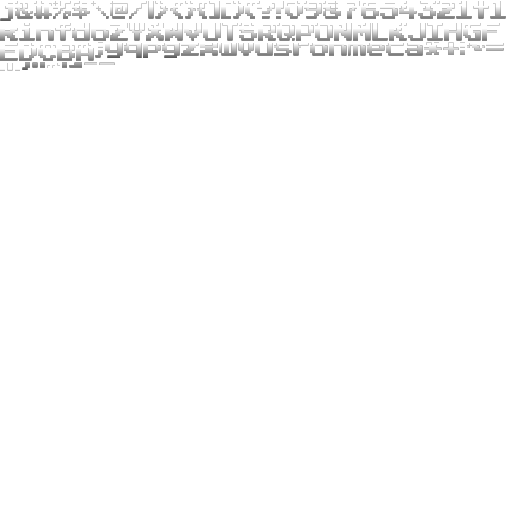
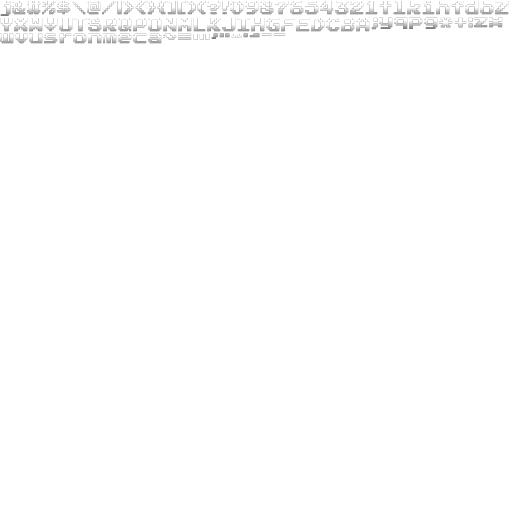
fixed font

Changed region(s): [[0.0, 0.0, 1.0, 0.1562]]

diff --git a/src/de/swagner/mgcube/Resources.java b/src/de/swagner/mgcube/Resources.java
@@ -257,7 +257,7 @@ public class Resources {
 	public int[][][] level7 = {
 			{ { 0, 0, 0, 0, 0, 0, 0, 0, 0, 0 }, { 0, 0, 0, 1, 0, 0, 0, 0, 0, 0 }, { 0, 0, 0, 0, 0, 0, 0, 0, 0, 0 }, { 0, 0, 0, 1, 0, 0, 0, 0, 0, 0 }, { 0, 0, 0, 0, 0, 0, 0, 0, 0, 0 }, { 0, 0, 0, 0, 0, 0, 0, 0, 0, 0 }, { 0, 0, 0, 0, 0, 0, 0, 0, 0, 0 }, { 0, 0, 0, 0, 0, 0, 0, 0, 0, 0 }, { 0, 0, 0, 0, 0, 0, 0, 0, 0, 0 }, { 0, 0, 0, 0, 0, 0, 0, 0, 0, 0 } }, { { 0, 0, 0, 0, 0, 0, 0, 3, 0, 0 }, { 0, 0, 0, 0, 0, 0, 0, 0, 0, 0 }, { 0, 0, 0, 0, 0, 0, 0, 0, 0, 0 }, { 0, 0, 0, 0, 0, 0, 0, 0, 0, 0 }, { 0, 0, 0, 0, 0, 0, 0, 0, 0, 0 }, { 0, 0, 0, 0, 0, 0, 0, 0, 1, 0 }, { 0, 0, 0, 0, 0, 0, 0, 0, 0, 0 }, { 0, 0, 0, 1, 0, 0, 0, 0, 0, 0 }, { 0, 0, 0, 0, 0, 0, 0, 0, 0, 0 }, { 0, 0, 0, 0, 0, 0, 0, 0, 0, 0 } }, { { 0, 0, 0, 0, 0, 0, 0, 0, 0, 0 }, { 0, 0, 0, 0, 0, 0, 0, 0, 0, 0 }, { 0, 0, 0, 0, 0, 0, 0, 0, 0, 0 }, { 0, 0, 0, 0, 0, 0, 0, 0, 0, 0 }, { 0, 0, 0, 0, 0, 0, 0, 0, 0, 0 }, { 0, 0, 0, 0, 0, 0, 0, 0, 0, 0 }, { 0, 0, 0, 0, 0, 0, 0, 0, 0, 0 }, { 0, 0, 0, 0, 0, 0, 0, 0, 0, 0 }, { 0, 0, 0, 0, 0, 0, 0, 0, 0, 0 }, { 0, 0, 0, 0, 0, 0, 0, 0, 0, 0 } }, { { 0, 0, 0, 0, 0, 0, 0, 0, 0, 0 }, { 0, 0, 0, 0, 0, 0, 0, 0, 0, 0 }, { 0, 0, 0, 0, 0, 0, 0, 0, 0, 0 }, { 0, 0, 0, 0, 0, 0, 0, 0, 0, 0 }, { 0, 0, 0, 0, 0, 0, 0, 0, 0, 0 }, { 0, 0, 0, 0, 0, 0, 0, 0, 0, 0 }, { 0, 0, 0, 0, 0, 0, 0, 0, 0, 0 }, { 0, 0, 0, 0, 0, 0, 0, 0, 0, 0 }, { 0, 0, 0, 0, 0, 0, 0, 0, 0, 0 }, { 0, 0, 0, 0, 0, 0, 0, 0, 0, 0 } }, { { 0, 0, 0, 0, 0, 0, 0, 0, 0, 0 }, { 0, 0, 0, 0, 0, 0, 0, 0, 0, 0 }, { 0, 0, 0, 0, 0, 0, 0, 0, 0, 0 }, { 0, 0, 0, 0, 0, 0, 0, 0, 0, 0 }, { 0, 0, 0, 0, 0, 0, 0, 0, 0, 0 }, { 0, 0, 0, 0, 0, 0, 0, 0, 0, 0 }, { 0, 0, 0, 0, 0, 0, 0, 0, 0, 0 }, { 0, 0, 0, 0, 0, 0, 0, 0, 0, 0 }, { 0, 0, 0, 0, 0, 0, 0, 0, 0, 0 }, { 0, 0, 0, 0, 0, 0, 0, 0, 0, 0 } }, { { 0, 0, 0, 0, 0, 0, 0, 0, 0, 0 }, { 0, 0, 0, 0, 0, 0, 0, 0, 0, 0 }, { 0, 0, 0, 0, 0, 0, 0, 0, 0, 0 }, { 0, 0, 0, 9, 0, 0, 0, 2, 0, 0 }, { 0, 0, 0, 0, 0, 0, 0, 0, 0, 0 }, { 0, 0, 0, 0, 0, 0, 0, 0, 0, 0 }, { 0, 0, 0, 0, 0, 0, 0, 0, 0, 0 }, { 0, 0, 0, 0, 0, 0, 0, 0, 0, 0 }, { 0, 0, 0, 0, 0, 0, 0, 0, 0, 0 }, { 0, 0, 0, 0, 0, 0, 0, 0, 0, 0 } }, { { 0, 0, 0, 1, 0, 0, 0, 0, 0, 0 }, { 0, 0, 0, 0, 0, 0, 0, 0, 0, 0 }, { 0, 0, 0, 0, 0, 0, 0, 0, 0, 0 }, { 0, 0, 0, 0, 0, 0, 0, 0, 0, 0 }, { 0, 0, 0, 0, 0, 0, 0, 0, 0, 0 }, { 0, 0, 0, 0, 0, 0, 0, 0, 0, 0 }, { 0, 0, 0, 0, 0, 0, 0, 0, 0, 0 }, { 0, 0, 0, 0, 0, 0, 0, 0, 0, 0 }, { 0, 0, 0, 0, 0, 0, 0, 0, 0, 0 }, { 0, 0, 0, 0, 0, 0, 0, 0, 0, 0 } }, { { 0, 0, 0, 0, 0, 0, 0, 0, 0, 0 }, { 0, 0, 0, 0, 0, 0, 0, 0, 0, 0 }, { 0, 0, 0, 0, 0, 0, 0, 0, 0, 0 }, { 0, 0, 0, 0, 0, 0, 0, 0, 0, 0 }, { 0, 0, 0, 0, 0, 0, 0, 0, 0, 0 }, { 0, 0, 0, 0, 0, 0, 0, 0, 0, 0 }, { 0, 0, 0, 0, 0, 0, 0, 0, 0, 0 }, { 0, 0, 0, 0, 0, 0, 0, 0, 0, 0 }, { 0, 0, 0, 0, 0, 0, 0, 0, 0, 0 }, { 0, 0, 0, 0, 0, 0, 0, 0, 0, 0 } }, { { 0, 0, 0, 0, 0, 0, 0, 0, 0, 0 }, { 0, 0, 0, 0, 0, 0, 0, 0, 0, 0 }, { 0, 0, 0, 0, 0, 0, 0, 0, 0, 0 }, { 0, 0, 1, 0, 0, 0, 0, 0, 0, 0 }, { 0, 0, 0, 0, 0, 0, 0, 0, 0, 0 }, { 0, 0, 0, 0, 0, 0, 0, 0, 0, 0 }, { 0, 0, 0, 0, 0, 0, 0, 0, 0, 0 }, { 0, 0, 0, 0, 0, 0, 0, 0, 0, 0 }, { 0, 0, 0, 0, 0, 0, 0, 0, 0, 0 }, { 0, 0, 0, 0, 0, 0, 0, 0, 0, 0 } }, { { 0, 0, 0, 0, 0, 0, 0, 0, 0, 0 }, { 0, 0, 0, 0, 0, 0, 0, 0, 0, 0 }, { 0, 0, 0, 0, 0, 0, 0, 0, 0, 0 }, { 0, 0, 0, 0, 0, 0, 0, 1, 0, 0 }, { 0, 0, 0, 0, 0, 0, 0, 0, 0, 0 }, { 0, 0, 0, 0, 0, 0, 0, 0, 0, 0 }, { 0, 0, 0, 0, 0, 0, 0, 0, 0, 0 }, { 0, 0, 0, 0, 0, 0, 0, 0, 0, 0 }, { 0, 0, 0, 0, 0, 0, 0, 0, 0, 0 }, { 0, 0, 0, 0, 0, 0, 0, 0, 0, 0 } }};
 
-	//
[1 lines of base64/hex data omitted]
 	public int[][][] level8 = {
 			{ { 0, 0, 0, 0, 0, 0, 0, 0, 0, 0 }, { 0, 0, 0, 0, 0, 0, 0, 0, 0, 0 }, { 0, 0, 0, 0, 0, 0, 0, 0, 0, 0 }, { 0, 0, 0, 0, 0, 0, 0, 0, 0, 0 }, { 0, 0, 0, 0, 0, 0, 0, 0, 0, 0 }, { 0, 0, 0, 0, 0, 0, 0, 0, 1, 0 }, { 0, 0, 0, 0, 0, 0, 0, 0, 0, 0 }, { 0, 0, 0, 0, 0, 0, 0, 0, 0, 0 }, { 0, 0, 0, 0, 0, 0, 0, 0, 0, 0 }, { 0, 0, 0, 0, 0, 0, 0, 0, 0, 0 } }, { { 0, 1, 0, 0, 0, 0, 0, 0, 0, 0 }, { 0, 1, 0, 0, 0, 0, 0, 0, 0, 0 }, { 0, 0, 0, 0, 0, 0, 0, 0, 0, 0 }, { 0, 0, 0, 0, 0, 0, 0, 0, 0, 0 }, { 0, 0, 0, 0, 0, 0, 0, 0, 0, 0 }, { 1, 0, 0, 0, 0, 0, 0, 0, 0, 0 }, { 0, 0, 0, 0, 0, 0, 0, 0, 0, 0 }, { 0, 0, 0, 0, 0, 0, 0, 0, 0, 0 }, { 0, 0, 0, 0, 0, 0, 0, 0, 0, 0 }, { 0, 0, 0, 0, 0, 0, 0, 0, 0, 0 } }, { { 0, 0, 0, 0, 1, 0, 0, 0, 0, 0 }, { 3, 0, 0, 0, 0, 0, 0, 0, 0, 0 }, { 1, 0, 0, 0, 4, 0, 0, 0, 0, 0 }, { 0, 0, 0, 0, 0, 0, 0, 0, 0, 0 }, { 0, 0, 0, 0, 0, 0, 0, 0, 0, 0 }, { 0, 9, 0, 0, 0, 0, 0, 0, 0, 0 }, { 0, 0, 0, 0, 0, 0, 0, 0, 0, 0 }, { 0, 0, 0, 0, 0, 0, 0, 0, 0, 0 }, { 0, 0, 0, 0, 0, 0, 0, 0, 0, 0 }, { 0, 0, 0, 0, 0, 0, 0, 0, 0, 0 } }, { { 0, 0, 0, 0, 0, 0, 0, 0, 0, 0 }, { 0, 0, 0, 0, 0, 0, 0, 0, 1, 0 }, { 0, 0, 0, 0, 0, 0, 0, 0, 0, 0 }, { 0, 0, 0, 0, 0, 0, 0, 0, 0, 0 }, { 0, 0, 0, 0, 0, 0, 0, 0, 0, 0 }, { 0, 0, 0, 0, 0, 0, 0, 0, 0, 0 }, { 0, 0, 0, 0, 0, 0, 0, 0, 0, 0 }, { 0, 0, 0, 0, 0, 0, 0, 0, 0, 0 }, { 0, 0, 0, 0, 0, 0, 0, 0, 0, 0 }, { 0, 0, 0, 0, 0, 0, 0, 0, 0, 0 } }, { { 0, 0, 0, 0, 0, 0, 0, 0, 0, 0 }, { 0, 0, 0, 0, 0, 0, 0, 0, 0, 0 }, { 0, 0, 0, 0, 0, 0, 0, 0, 0, 0 }, { 0, 0, 0, 0, 0, 0, 0, 0, 2, 0 }, { 0, 0, 0, 0, 0, 0, 0, 0, 0, 0 }, { 0, 0, 0, 0, 0, 0, 0, 0, 0, 0 }, { 0, 0, 0, 0, 0, 0, 0, 0, 1, 0 }, { 0, 0, 0, 0, 0, 0, 0, 0, 0, 0 }, { 0, 0, 0, 0, 0, 0, 0, 0, 0, 0 }, { 0, 0, 0, 0, 0, 0, 0, 0, 0, 0 } }, { { 0, 0, 0, 0, 0, 0, 0, 0, 0, 0 }, { 0, 0, 0, 0, 0, 0, 0, 0, 0, 0 }, { 0, 0, 0, 0, 0, 0, 0, 0, 0, 0 }, { 0, 0, 0, 0, 0, 0, 0, 0, 0, 0 }, { 0, 0, 0, 0, 0, 0, 0, 0, 0, 0 }, { 0, 0, 0, 0, 0, 0, 0, 0, 0, 0 }, { 0, 0, 0, 0, 0, 0, 0, 0, 0, 0 }, { 0, 0, 0, 0, 0, 0, 0, 0, 0, 0 }, { 0, 0, 0, 0, 0, 0, 0, 0, 0, 0 }, { 0, 0, 0, 0, 0, 0, 0, 0, 0, 0 } }, { { 0, 0, 0, 0, 0, 0, 0, 0, 0, 0 }, { 0, 0, 0, 0, 0, 0, 0, 0, 0, 0 }, { 0, 0, 0, 0, 0, 0, 0, 0, 0, 0 }, { 0, 0, 0, 0, 0, 0, 0, 0, 0, 0 }, { 0, 0, 0, 0, 0, 0, 0, 0, 0, 0 }, { 0, 0, 0, 0, 0, 0, 0, 0, 0, 0 }, { 0, 0, 0, 0, 0, 0, 0, 0, 0, 0 }, { 0, 0, 0, 0, 0, 0, 0, 0, 0, 0 }, { 0, 0, 0, 0, 0, 0, 0, 0, 0, 0 }, { 0, 0, 0, 0, 0, 0, 0, 0, 0, 0 } }, { { 0, 1, 0, 0, 0, 0, 0, 0, 1, 1 }, { 0, 0, 0, 0, 0, 0, 0, 0, 0, 1 }, { 0, 0, 0, 0, 0, 0, 0, 0, 0, 0 }, { 0, 0, 0, -4, 0, 0, 0, 9, 0, 0 }, { 0, 0, 0, 0, 0, 0, 0, 0, 0, 0 }, { 1, 0, 0, 0, 0, 0, 0, 9, 0, 0 }, { 0, 0, 0, 0, 0, 0, 0, 0, 0, 0 }, { 0, 0, 0, 0, 0, 0, 0, 0, 0, 0 }, { 0, 0, 0, 0, 0, 0, 0, 0, 0, 0 }, { 0, 0, 0, 0, 0, 0, 0, 0, 0, 0 } }, { { 0, 1, 0, 0, 0, 0, 0, 0, 1, 1 }, { 0, 0, 0, 0, 0, 0, 0, 0, 0, 1 }, { 0, 0, 0, 0, 0, 0, 0, 0, 0, 0 }, { 0, 0, 0, 0, 0, 0, 0, 1, 1, 0 }, { 0, 0, 0, 0, 0, 0, 0, 0, 0, 0 }, { 0, 0, 0, 0, 0, 0, 0, 0, 1, 0 }, { 0, 1, 0, 0, 0, 0, 0, 0, 0, 0 }, { 0, 0, 0, 0, 0, 0, 0, 0, 0, 0 }, { 0, 0, 0, 0, 0, 0, 0, 0, 0, 0 }, { 0, 0, 0, 0, 0, 0, 0, 0, 0, 0 } }, { { 0, 1, 0, 0, 0, 0, 0, 0, 0, 0 }, { 0, 1, 0, 0, 0, 0, 0, 0, 0, 0 }, { 0, 1, 0, 0, 0, 0, 0, 0, 0, 0 }, { 0, 0, 0, 0, 0, 0, 0, 1, 1, 0 }, { 0, 0, 0, 0, 0, 0, 0, 0, 1, 0 }, { 0, 0, 0, 0, 0, 0, 0, 0, 1, 0 }, { 0, 0, 0, 0, 0, 0, 0, 0, 0, 0 }, { 0, 0, 0, 0, 0, 0, 0, 0, 0, 0 }, { 0, 0, 0, 0, 0, 0, 0, 0, 0, 0 }, { 0, 0, 0, 0, 0, 0, 0, 0, 0, 0 } }
 	};
@@ -401,6 +401,7 @@ public class Resources {
 
 	public void dispose() {
 		font.dispose();
+		selectedFont.dispose();
 
 		blockModel.dispose();
 		playerModel.dispose();

diff --git a/src/de/swagner/mgcube/MainMenuScreen.java b/src/de/swagner/mgcube/MainMenuScreen.java
@@ -108,7 +108,7 @@ public class MainMenuScreen extends DefaultScreen implements InputProcessor {
 		font = Resources.getInstance().font;
 		font.scale(0.5f);
 		selectedFont = Resources.getInstance().selectedFont;
-		selectedFont.scale(0.1f);
+		selectedFont.scale(0.5f);
 
 		fadeBatch = new SpriteBatch();
 		fadeBatch.getProjectionMatrix().setToOrtho2D(0, 0, 2, 2);

diff --git a/src/de/swagner/mgcube/GameScreen.java b/src/de/swagner/mgcube/GameScreen.java
@@ -4,7 +4,6 @@ import com.badlogic.gdx.Game;
 import com.badlogic.gdx.Gdx;
 import com.badlogic.gdx.Input;
 import com.badlogic.gdx.InputProcessor;
-import com.badlogic.gdx.graphics.GL10;
 import com.badlogic.gdx.graphics.GL20;
 import com.badlogic.gdx.graphics.Mesh;
 import com.badlogic.gdx.graphics.PerspectiveCamera;
